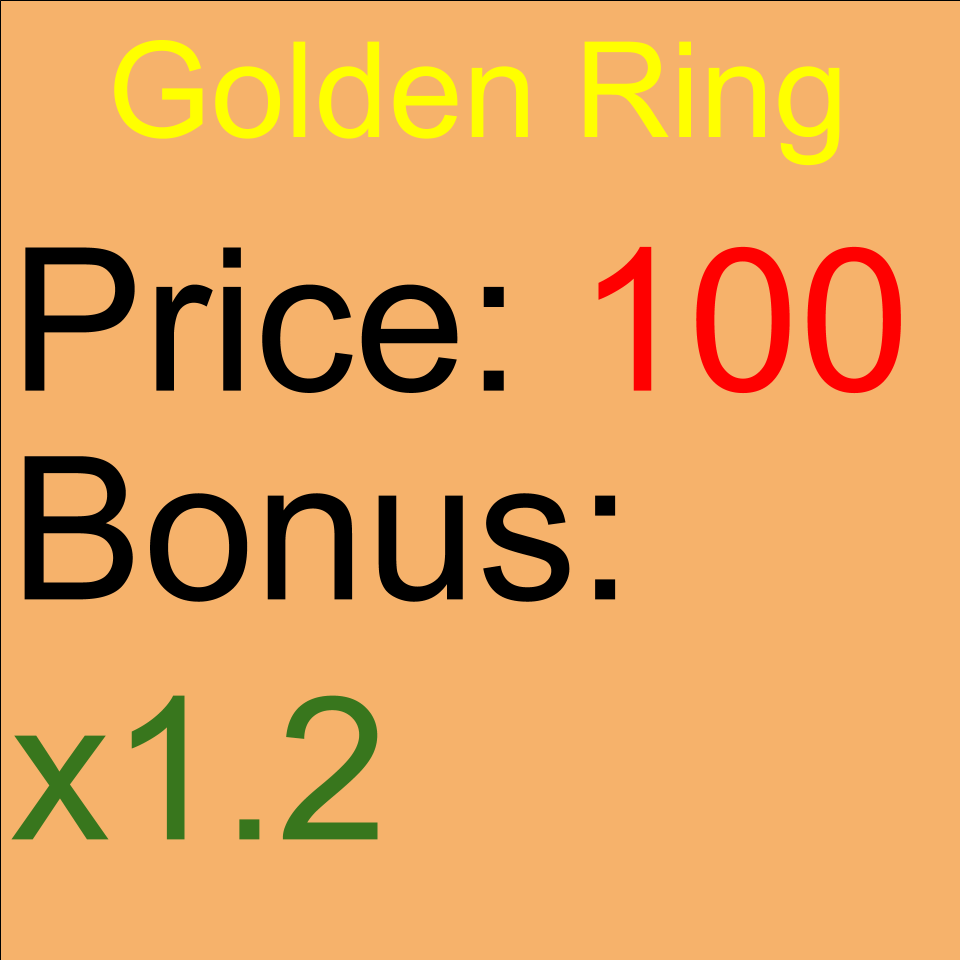
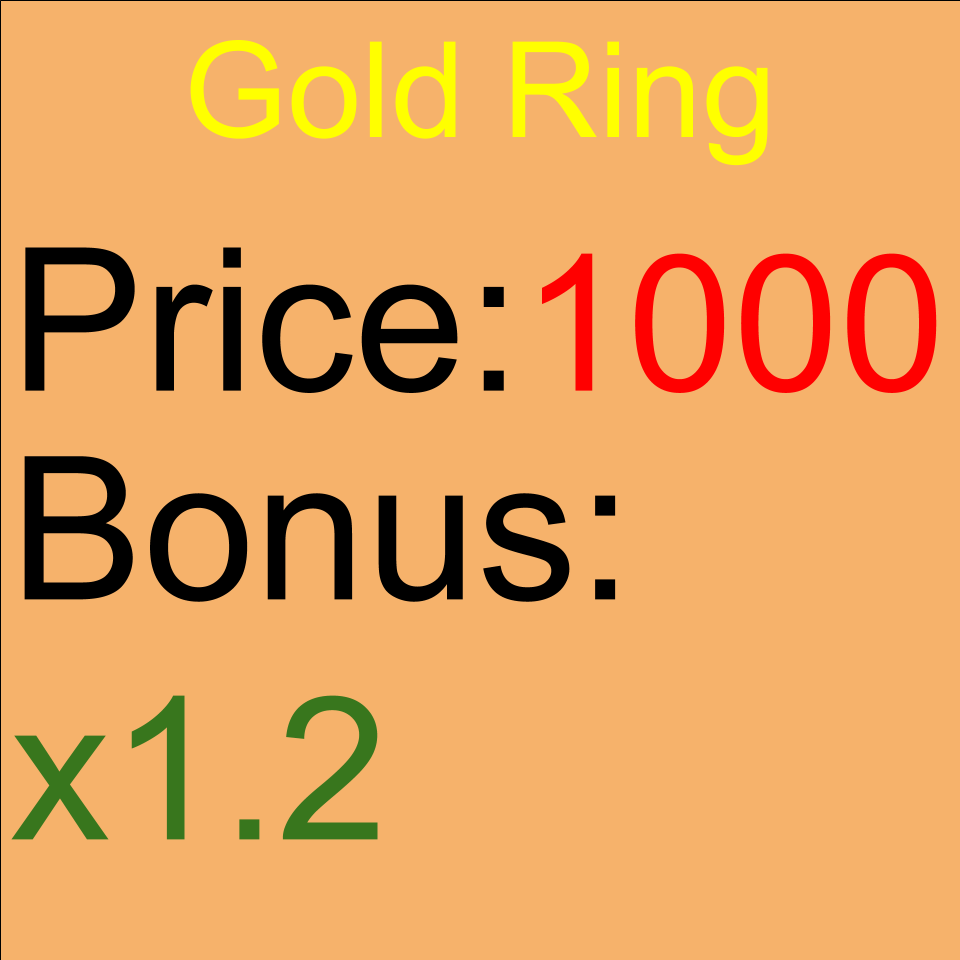
Added Stuff

Changed region(s): [[0.0938, 0.0312, 0.875, 0.1875], [0.5625, 0.25, 1.0, 0.4062]]

diff --git a/src/net/torghton/BlackJackLab/Panel.java b/src/net/torghton/BlackJackLab/Panel.java
@@ -1,5 +1,6 @@
 package net.torghton.BlackJackLab;
 
+import javafx.scene.control.ButtonBar;
 import net.torghton.BlackJackLab.AlexsGameEnhancers.*;
 
 import javax.swing.JPanel;
@@ -51,6 +52,23 @@ public class Panel extends JPanel implements KeyListener, MouseListener {
         imageLoader.loadImage("ShoppingCartIcon", "./assets/Buttons/ShoppingCartIcon.png");
         imageLoader.loadImage("ShoppingCartHoverIcon", "./assets/Buttons/ShoppingCartHoverIcon.png");
         imageLoader.loadImage("CardBack", "./assets/ExtraPlayingCards/PlayingCardBack.png");
+        imageLoader.loadImage("LuckySticks", "./assets/ShopImages/LuckySticks.png");
+        imageLoader.loadImage("LuckySticksToolTip", "./assets/ShopImages/LuckySticksToolTip.png");
+        imageLoader.loadImage("StuffedBunnyToolTip", "./assets/ShopImages/StuffedBunnyToolTip.png");
+        imageLoader.loadImage("ToyTruck", "./assets/ShopImages/ToyTruck.png");
+        imageLoader.loadImage("ToyTruckToolTip", "./assets/ShopImages/ToyTruckToolTip.png");
+        imageLoader.loadImage("Dreidel", "./assets/ShopImages/Dreidel.png");
+        imageLoader.loadImage("DreidelToolTip", "./assets/ShopImages/DreidelToolTip.png");
+        imageLoader.loadImage("Logo", "./assets/Logo/Logo.png");
+        imageLoader.loadImage("HitImage", "./assets/ExtraPlayingCards/HitImage.png");
+        imageLoader.loadImage("HitImageHovered", "./assets/ExtraPlayingCards/HitImageHovered.png");
+        imageLoader.loadImage("StandImage", "./assets/ExtraPlayingCards/StandImage.png");
+        imageLoader.loadImage("StandImageHovered", "./assets/ExtraPlayingCards/StandImageHovered.png");
+        imageLoader.loadImage("PlayButton", "./assets/Buttons/PlayButton.png");
+        imageLoader.loadImage("PlayButtonHovered", "./assets/Buttons/PlayButtonHovered.png");
+        imageLoader.loadImage("HelpButton", "./assets/Buttons/HelpButton.png");
+        imageLoader.loadImage("HelpButtonHovered", "./assets/Buttons/HelpButtonHovered.png");
+        imageLoader.loadImage("HelpScreen", "./assets/Backgrounds/HelpScreen.png");
 
         DrawableManager drawableManagerT = new DrawableManager(5);
 
@@ -117,7 +135,7 @@ public class Panel extends JPanel implements KeyListener, MouseListener {
         }
 
         // Real BlackJack
-        Money money = new Money(200, new Vector(500, 50), 50);
+        Money money = new Money(100, new Vector(500, 50), 50);
         addManagers(money, 1, 4);
 
         QuickText betAmountText = new QuickText(new Color(255, 222, 36), "Amount To Bet: ", new Vector(390, 630), 30, true);
@@ -138,6 +156,8 @@ public class Panel extends JPanel implements KeyListener, MouseListener {
                     cards.setPreviewMode(false);
                 }
             }
+
+            prompt.setCurrentlyHidden(true);
         });
         add(prompt);
 
@@ -145,7 +165,6 @@ public class Panel extends JPanel implements KeyListener, MouseListener {
             if(scene == 1) {
                 prompt.setVisible(!prompt.getCurrentlyHidden());
             } else {
-                prompt.setCurrentlyHidden(!prompt.isVisible());
                 prompt.setVisible(false);
             }
         });
@@ -159,12 +178,24 @@ public class Panel extends JPanel implements KeyListener, MouseListener {
         Background shopBackground = new Background(imageLoader.getImage("ShopBackground"), SCREENSIZE);
         addManagers(shopBackground, 2, 0);
 
-        cards = new Cards(cardImages, imageLoader.getImage("CardBack"), cardValues, (playerWon, totalPlayerPoints) -> {
-            money.calculateNewMoneyFromWinner(playerWon);
-            money.calculateNewPointsFramGamePoints(totalPlayerPoints);
-            prompt.setVisible(true);
-            prompt.setFocusable(true);
-            betAmountText.setVisible(true);
+        Background helpScreen = new Background(imageLoader.getImage("HelpScreen"), SCREENSIZE);
+        addManagers(helpScreen, 3, 0);
+
+        cards = new Cards(cardImages, imageLoader.getImage("CardBack"), cardValues, new GameStateEvent() {
+            @Override
+            public void onGameEnd(boolean playerWon, int points) {
+                money.calculateNewMoneyFromWinner(playerWon);
+                money.setTotalPoints(money.getTotalPoints() + money.calculateNewPointsFramGamePoints(points));
+                prompt.setCurrentlyHidden(false);
+                prompt.setVisible(true);
+                prompt.setFocusable(true);
+                betAmountText.setVisible(true);
+            }
+
+            @Override
+            public void onGamePreview(int points) {
+                cards.setOutCome(cards.getOutCome() + " + " + money.calculateNewPointsFramGamePoints(points) + "pts");
+            }
         });
         addManagers(cards, 1, 2);
 
@@ -178,36 +209,66 @@ public class Panel extends JPanel implements KeyListener, MouseListener {
             return new Vector(-100, -100);
         };
 
-        Button realBlackJackPlayButton = new Button(imageLoader.getImage("TempButton"), new Vector(SCREENSIZE.width/2 - 150, 450), new Dimension(300, 80), () -> scene.setScene(1), getMousePos);
+        VisualImage logo = new VisualImage(imageLoader.getImage("Logo"), new Vector((SCREENSIZE.width/2)-300, 50), new Dimension(600, 300));
+        addManagers(logo, 0, 3);
+
+        Button realBlackJackPlayButton = new Button(imageLoader.getImage("PlayButton"), imageLoader.getImage("PlayButtonHovered"), new Vector(SCREENSIZE.width/2 - 150, 450), new Dimension(300, 80), () -> scene.setScene(1), getMousePos);
         addManagers(realBlackJackPlayButton, 0, 2);
 
-        Button fakeBlackJackPlayButton =  new Button(imageLoader.getImage("TempButton"), new Vector(SCREENSIZE.width/2 - 150, 600), new Dimension(300, 80), () -> scene.setScene(3), getMousePos);
-        addManagers(fakeBlackJackPlayButton, 0, 2);
-
+        Button helpButton =  new Button(imageLoader.getImage("HelpButton"), imageLoader.getImage("HelpButtonHovered"), new Vector(SCREENSIZE.width/2 - 150, 600), new Dimension(300, 80), () -> scene.setScene(3), getMousePos);
+        addManagers(helpButton, 0, 2);
 
         Button shopButton = new Button(imageLoader.getImage("ShoppingCartIcon"), imageLoader.getImage("ShoppingCartHoverIcon"), new Vector(10, 10), new Dimension(130, 130), () -> scene.setScene(2), getMousePos);
         addManagers(shopButton, 1, 2);
 
+        Button HitButton = new Button(imageLoader.getImage("HitImage"), imageLoader.getImage("HitImageHovered"), new Vector(30, 600), new Dimension(130, 150), () -> cards.hit(), getMousePos);
+        addManagers(HitButton, 1, 2);
+
+        Button StandButton = new Button(imageLoader.getImage("StandImage"), imageLoader.getImage("StandImageHovered"), new Vector(200, 600), new Dimension(130, 150), () -> cards.stand(), getMousePos);
+        addManagers(StandButton, 1, 2);
+
         Button leaveButton = new Button(imageLoader.getImage("ExitHand"), new Vector(0, 0), new Dimension(200, 200), () -> scene.setScene(1), getMousePos);
         addManagers(leaveButton, 2, 2);
 
+        Button leaveButton2 = new Button(imageLoader.getImage("ExitHand"), new Vector(-30, 640), new Dimension(200, 200), () -> scene.setScene(0), getMousePos);
+        addManagers(leaveButton2, 3, 2);
+
         // Shop Items
-        Button ring = new Button(imageLoader.getImage("GoldRing"), imageLoader.getImage("GoldRingToolTip"), new Vector(100, 310), new Dimension(150, 150), () -> {
+        Button luckySticks = new Button(imageLoader.getImage("LuckySticks"), imageLoader.getImage("LuckySticksToolTip"), new Vector(50, 220), new Dimension(200, 200), () -> {
+            if(money.spendMoney(100)) {
+                money.increaseMultiplyer(.015);
+            }
+        }, getMousePos);
+        addManagers(luckySticks, 2, 2);
+
+        // Shop Items
+        Button ring = new Button(imageLoader.getImage("GoldRing"), imageLoader.getImage("GoldRingToolTip"), new Vector(260, 300), new Dimension(150, 150), () -> {
             if(money.spendMoney(1000)) {
                 money.increaseMultiplyer(.2);
             }
         }, getMousePos);
         addManagers(ring, 2, 2);
 
-        Button StuffedBunny = new Button(imageLoader.getImage("StuffedBunny"), imageLoader.getImage("GoldRingToolTip"), new Vector(300, 210), new Dimension(200, 300), () -> {
+        Button StuffedBunny = new Button(imageLoader.getImage("StuffedBunny"), imageLoader.getImage("StuffedBunnyToolTip"), new Vector(500, 130), new Dimension(200, 300), () -> {
             if(money.spendMoney(10000)) {
-                money.increaseMultiplyer(3);
+                money.increaseMultiplyer(2);
             }
         }, getMousePos);
         addManagers(StuffedBunny, 2, 2);
 
+        Button ToyTruck = new Button(imageLoader.getImage("ToyTruck"), imageLoader.getImage("ToyTruckToolTip"), new Vector(40, 480), new Dimension(720, 220), () -> {
+            if(money.spendMoney(100000)) {
+                money.increaseMultiplyer(40);
+            }
+        }, getMousePos);
+        addManagers(ToyTruck, 2, 2);
 
-
+        Button Dreidel = new Button(imageLoader.getImage("Dreidel"), imageLoader.getImage("DreidelToolTip"), new Vector(400, 15), new Dimension(100, 100), () -> {
+            if(money.spendPoints(100)) {
+                money.gain(10000);
+            }
+        }, getMousePos);
+        addManagers(Dreidel, 2, 2);
 
 
 

diff --git a/src/net/torghton/BlackJackLab/Cards.java b/src/net/torghton/BlackJackLab/Cards.java
@@ -11,6 +11,7 @@ import java.util.Random;
 
 interface GameStateEvent {
     void onGameEnd(boolean playerWon, int points);
+    void onGamePreview(int points);
 }
 
 public class Cards implements Drawable, KeyInteractable {
@@ -35,6 +36,8 @@ public class Cards implements Drawable, KeyInteractable {
 
     private String outCome;
 
+    private int CardToTake;
+
     public Cards(Image[] cardImages, Image hiddenCard, int[] CardPoints, GameStateEvent gameStateEvent) {
         this.hiddenCard = hiddenCard;
 
@@ -43,6 +46,9 @@ public class Cards implements Drawable, KeyInteractable {
         outCome = "";
 
         playerWon = false;
+        gameOver = false;
+
+        CardToTake = 0;
 
         this.gameStateEvent = gameStateEvent;
 
@@ -53,20 +59,10 @@ public class Cards implements Drawable, KeyInteractable {
 
         keys = new Hashtable<>();
         keys.put(72, () -> {
-            if(!gameOver && !previewMode) {
-                player.draw();
-                if(player.checkForBust()) {
-                    endGame(true);
-                }
-            }
+            hit();
         });
         keys.put(83, () -> {
-            if(!gameOver && !previewMode) {
-                player.stand();
-                if(player.checkForBust()) {
-                    endGame(true);
-                }
-            }
+            stand();
         });
 
         keys.put(82, () -> {
@@ -83,6 +79,8 @@ public class Cards implements Drawable, KeyInteractable {
     }
 
     public void restart(Image[] cardImages) {
+        CardToTake = 0;
+
         for(Card card: player.getCardsInHand()) {
             card.setHidden(false);
         }
@@ -116,6 +114,36 @@ public class Cards implements Drawable, KeyInteractable {
         this.previewMode = previewMode;
     }
 
+    public void setOutCome(String outCome) {
+        this.outCome = outCome;
+    }
+
+    public String getOutCome() {
+        return outCome;
+    }
+
+    public Player getPlayer() {
+        return player;
+    }
+
+    public void hit() {
+        if (!gameOver && !previewMode && getPlayer().getCardsInHand().size() > 0) {
+            player.draw();
+            if (player.checkForBust()) {
+                endGame(true);
+            }
+        }
+    }
+
+    public void stand() {
+        if(!gameOver && !previewMode && getPlayer().getCardsInHand().size() > 0) {
+            player.stand();
+            if(player.checkForBust()) {
+                endGame(true);
+            }
+        }
+    }
+
     private Card[] newCards(Card[] _cards, Image[] cardImages) {
         Card[] _cardsTemp = new Card[_cards.length];
 
@@ -145,13 +173,15 @@ public class Cards implements Drawable, KeyInteractable {
                     playerWon = false;
                 }
             } else {
-                outCome = "DEALER BUSTED\nYOU WIN";
+                outCome = "YOU WIN";
                 playerWon = true;
             }
         } else {
             outCome = "You Lost!";
             playerWon = false;
         }
+
+        gameStateEvent.onGamePreview(player.getTotalPoints());
 
     }
 
@@ -219,8 +249,7 @@ public class Cards implements Drawable, KeyInteractable {
 
         // TODO: SWITCH THIS TO TAKE FROM TOP OF THE DECK, AND NOT A RANDOM INDEX
         public Card draw() {
-            int rnd = new Random().nextInt(cardsInDeck.length);
-            cardsInHand.add(cardsInDeck[rnd]);
+            cardsInHand.add(cardsInDeck[++CardToTake]);
 
             return cardsInHand.get(cardsInHand.size()-1);
         }

diff --git a/src/net/torghton/BlackJackLab/Money.java b/src/net/torghton/BlackJackLab/Money.java
@@ -5,6 +5,8 @@ import net.torghton.BlackJackLab.AlexsGameEnhancers.Vector;
 import net.torghton.BlackJackLab.AlexsGameEnhancers.VisualComponent;
 
 import java.awt.*;
+import java.math.BigDecimal;
+import java.math.RoundingMode;
 
 public class Money implements Drawable {
 
@@ -41,8 +43,8 @@ public class Money implements Drawable {
 
     public boolean spendPoints(int amount) {
         if(amount >= 0) {
-            if(totalMoney - amount >= 0) {
-                setTotalMoney(totalMoney - amount);
+            if(totalPoints - amount >= 0) {
+                setTotalPoints(totalPoints - amount);
                 return true;
             }
         }
@@ -64,24 +66,26 @@ public class Money implements Drawable {
         this.totalPoints = totalPoints;
     }
 
-    public void calculateNewPointsFramGamePoints(int points) {
+    public int getTotalPoints() {
+        return totalPoints;
+    }
+
+    public int calculateNewPointsFramGamePoints(int points) {
         switch(points) {
             case 16:
             case 17:
-                setTotalPoints(totalPoints + 1);
-                break;
+                return 1;
             case 18:
             case 19:
-                setTotalPoints(totalPoints + 2);
-                break;
+                return 2;
             case 20:
-                setTotalPoints(totalPoints + 3);
-                break;
+                return 3;
             case 21:
-                setTotalPoints(totalPoints + 5);
-                break;
+                return 5;
 
         }
+
+        return 0;
     }
 
     public boolean bet(int amountToBet) {
@@ -108,6 +112,8 @@ public class Money implements Drawable {
         g.setFont(new Font("Money", 0, size));
         g.drawString("$$$ = " + totalMoney, (int) location.getXDirection(), (int) location.getYDirection());
         g.drawString("Points = " + totalPoints, (int) location.getXDirection(), (int) location.getYDirection()+size*2);
+        g.drawString("Mult = " + String.valueOf(new BigDecimal(cashMultiplyer).setScale(2, RoundingMode.DOWN)) + "x", 150, 100);
+
         g.setFont(new Font("Amount Bet", 0, size/2));
         g.drawString("Amount Bet = " + amountBet, (int) location.getXDirection(), (int) location.getYDirection() + size);
     }

diff --git a/src/net/torghton/BlackJackLab/VisualImage.java b/src/net/torghton/BlackJackLab/VisualImage.java
@@ -1,0 +1,22 @@
+package net.torghton.BlackJackLab;
+
+import net.torghton.BlackJackLab.AlexsGameEnhancers.Vector;
+import net.torghton.BlackJackLab.AlexsGameEnhancers.VisualComponent;
+
+import java.awt.*;
+
+public class VisualImage extends VisualComponent {
+
+    private Image image;
+
+    public VisualImage(Image image, Vector location, Dimension size) {
+        super(location, size);
+
+        this.image = image;
+    }
+
+    @Override
+    public void drawSelf(Graphics g) {
+        g.drawImage(image, (int) location.getXDirection(), (int) location.getYDirection(), (int) size.getWidth(), (int) size.getHeight(), null);
+    }
+}
